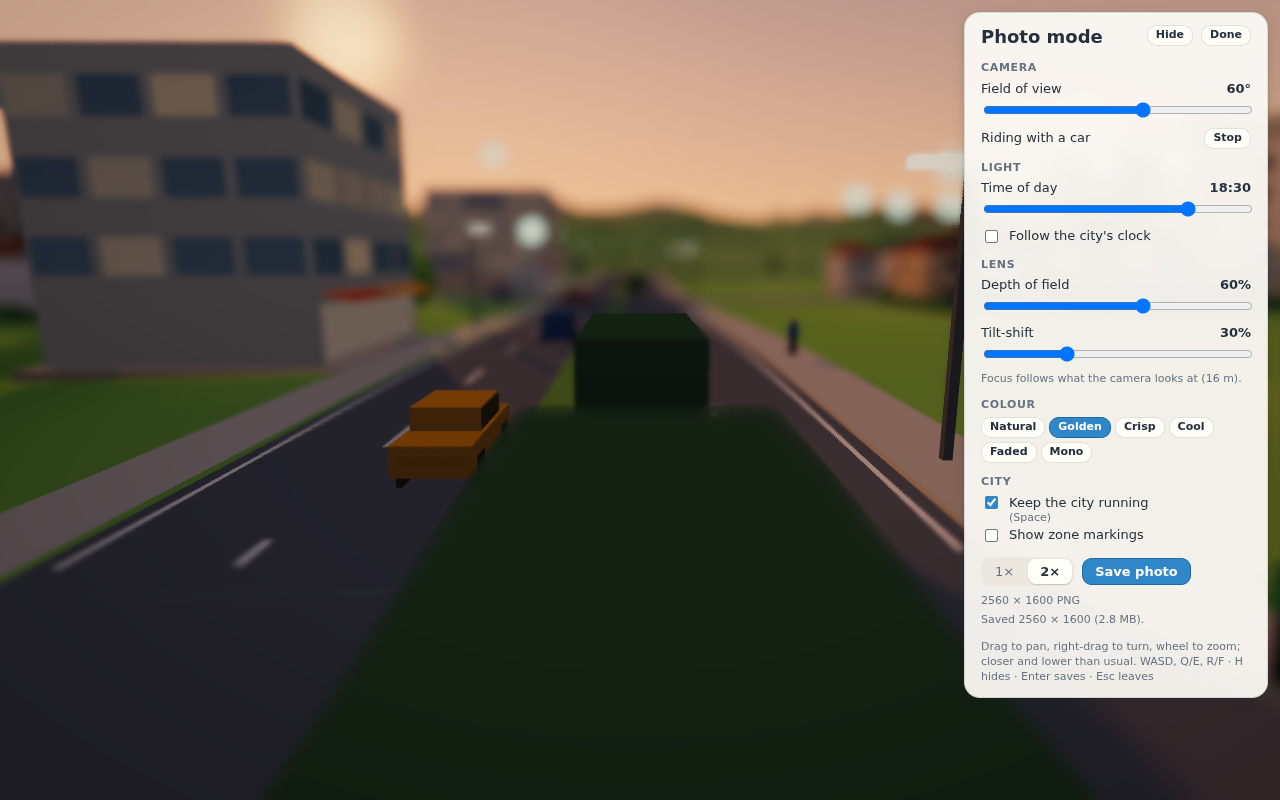
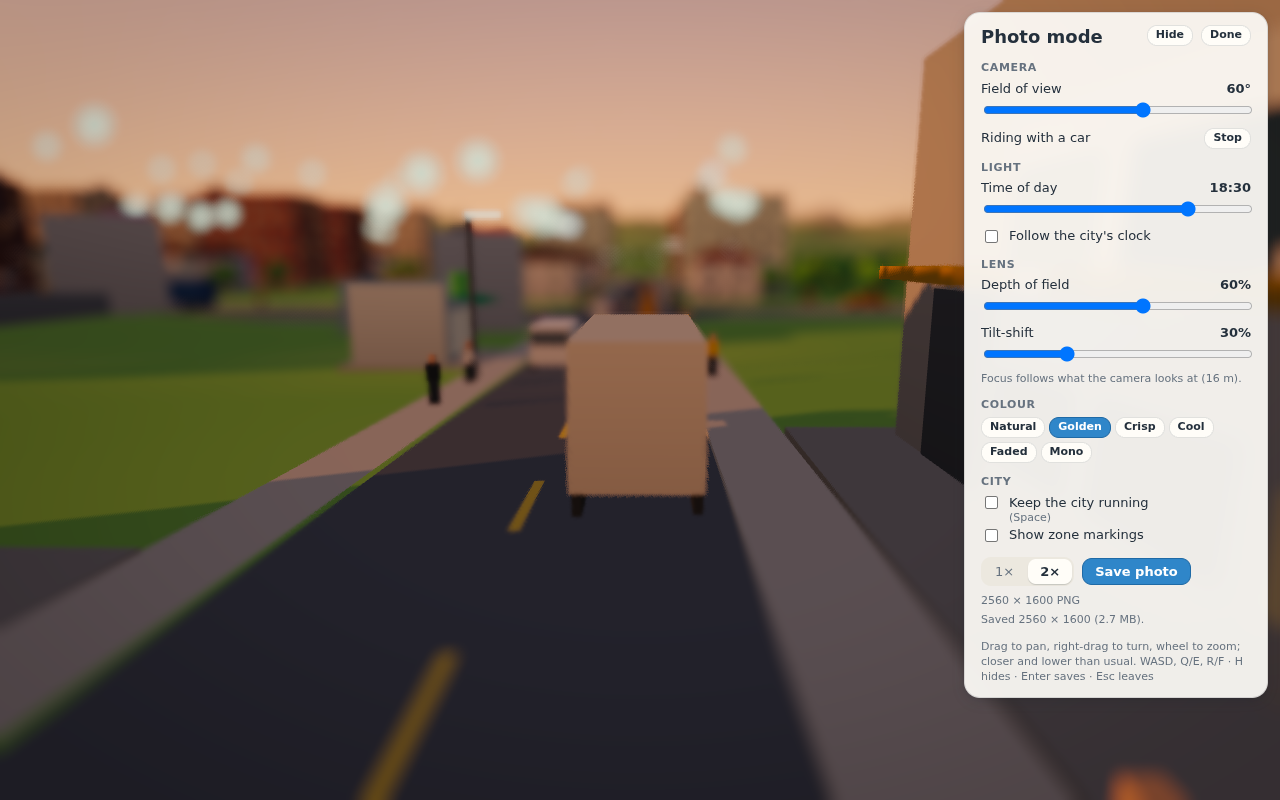
M16 complete: photo mode and city history
City history: ten figures recorded as each month closes (population,
approval, jobs, unemployment, treasury, income, spending, air pollution,
crime, commutes), downsampled to at most 240 points per figure over any
lifetime, milestones and disasters on the timeline, saved (v14; older
saves start their history when loaded) and charted in a City history
panel (Y).

Photo mode (K): only its panel shows (H hides it); the camera comes down
to eye level; time of day, field of view, depth of field, tilt-shift and
six colour grades through a photo-only two-pass lens; a follow camera
for cars, buses, people and service vehicles; the city can pause or run;
PNGs from the canvas at 1x or 2x the screen's resolution.

e2e m16-photo-history passes (history equal and hash equal after save
and load through the UI; 2x PNG with no interface), 174 unit tests;
bench and balance rerun and logged.

Claude-Session: https://claude.ai/code/session_01XW8DbmKrRef35JRd9CiaPb

diff --git a/PROGRESS.md b/PROGRESS.md
@@ -27,7 +27,7 @@
 - [x] M13 Gentler roads
 - [x] M14 Controls and editing
 - [x] M15 Publish it
-- [ ] M16 Photo mode and city history
+- [x] M16 Photo mode and city history
 - [ ] M17 Big projects and elections
 - [ ] M18 Scenarios
 - [ ] M19 Traffic tools
@@ -53,7 +53,7 @@ floods and meteors strike and the city rebuilds. Saves are versioned and compres
 slots and file export. It deploys to GitHub Pages as an installable app that plays offline and
 offers each new version (M15). Everything runs from a deterministic sim in a Web Worker: 0.7–1.3 ms
 per tick on average at 100k residents on this VM (it varies by day; see Performance), with 288 draw
-calls at the city overview. Checked by 170 unit and scenario tests, 19 UI tests, a 10-minute soak
+calls at the city overview. Checked by 174 unit and scenario tests, 20 UI tests, a 10-minute soak
 and a full playthrough through the UI (`docs/SPEC_REVIEW.md` maps every SPEC item to where it's
 done).
 
@@ -79,19 +79,23 @@ preview, a first-launch graphics check, and the README's simulation claim correc
 suite runs against a production-mode build served from `/Sim-Cities/`. Publishing needs the two
 clicks at the top of this file.
 
-M16 Photo mode and city history: code, unit tests and the e2e spec pass
-(`e2e/m16-photo-history.spec.ts`), screenshots reviewed (history panel, photo panel, 2× photo,
-five looks from `scripts/dev/photoshot.mjs`); two lens bugs fixed on the way (HDR highlights
-blooming into blobs, grain in blurred areas). Remaining before `M16 complete:`: the full e2e suite,
-bench and balance, PROGRESS numbers.
+M16 Photo mode and city history is complete: the sim records ten figures each month (save v14)
+and the City history panel (Y) charts them with milestones and disasters marked; photo mode (K)
+hides the interface, brings the camera to eye level, sets light, lens (depth of field, tilt-shift),
+field of view and six grades, follows a car, bus or person, and saves a PNG at 1× or 2×. All 20
+e2e specs pass (M16's rerun after the full run, see DECISIONS), 174 unit tests.
 
 ## Next tasks
-1. M16 wrap-up: `npm run e2e` (all specs), `bench.ts 8 --big`, `balance.ts 20`, log numbers,
-   commit `M16 complete:`.
-2. Then M17 Big projects and elections.
-3. Performance watch: at the big city's growth burst (months 4–5, 97–111k) the tick average is
-   1.1–1.3 ms on this VM for both M13 and M14 code (0.7–1.0 ms when M13 was measured). Look for
-   savings in the growth months before M19 adds car-following.
+1. M17 Big projects and elections: 4–6 multi-stage projects with requirements, stages and perks;
+   elections every 4 years with up to two promises, a perk for winning and a year of limits for
+   losing (off in sandbox, and a setting); the balance tool's careful mayor planning the whole map
+   past 50k, completing a project and winning an election; late-game money soaked up without
+   tightening the early game. Drafts of the project and election data are in the session
+   scratchpad (`m17/`); rewrite from SPEC-2 if lost.
+2. Then M18 Scenarios.
+3. Performance watch: tick average at the big city's growth burst varies 0.9–1.3 ms by VM day;
+   one unprofiled M16 run had one-off 64–92 ms ticks. Look for savings before M19 adds
+   car-following.
 
 ## Known issues
 - Photo mode's depth of field is a screen-space gather: fine for stills, but thin bright things right against a blurred background can show a faint halo, and saving at 2× takes up to a minute on this VM's software renderer (a fraction of a second on a GPU).

diff --git a/docs/DECISIONS.md b/docs/DECISIONS.md
@@ -251,3 +251,4 @@ One line each: what was decided and why. Newest at the bottom of each section.
 - Time of day in photo mode only relights the view (the city's clock runs on, or pauses with "Keep the city running" off).
 - The M16 test town gets a fire station, police, a clinic, a school and a park as well as utilities: without them the scripted town peaks around 650 residents and burns down before it's a village, which is the game working as designed.
 - A photo at 2× on SwiftShader takes up to a minute (the whole frame is drawn again at four times the pixels, through the lens); the Save button blocks for that long rather than showing progress, since on real hardware it is a fraction of a second.
+- The e2e follow check pauses the city, attaches to a car, then advances four ticks and checks the camera moved with it: on SwiftShader the sim worker keeps real time while frames crawl, so with the city running a whole car trip could pass between two frames (the full-suite run failed there once; the rerun passes). On real hardware a car stays followable for its whole trip.
